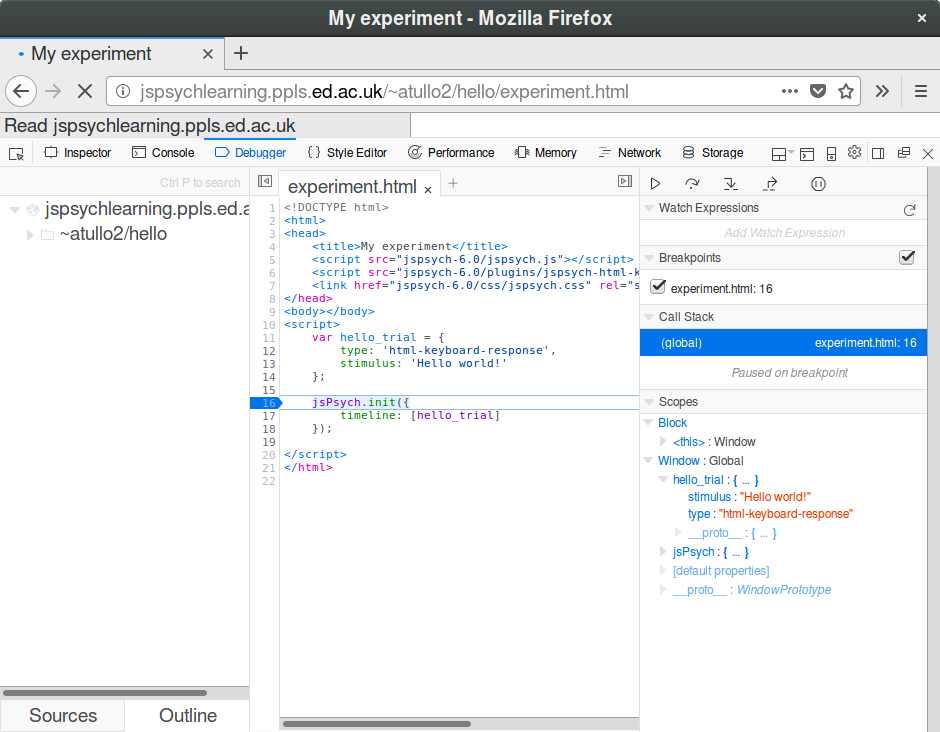
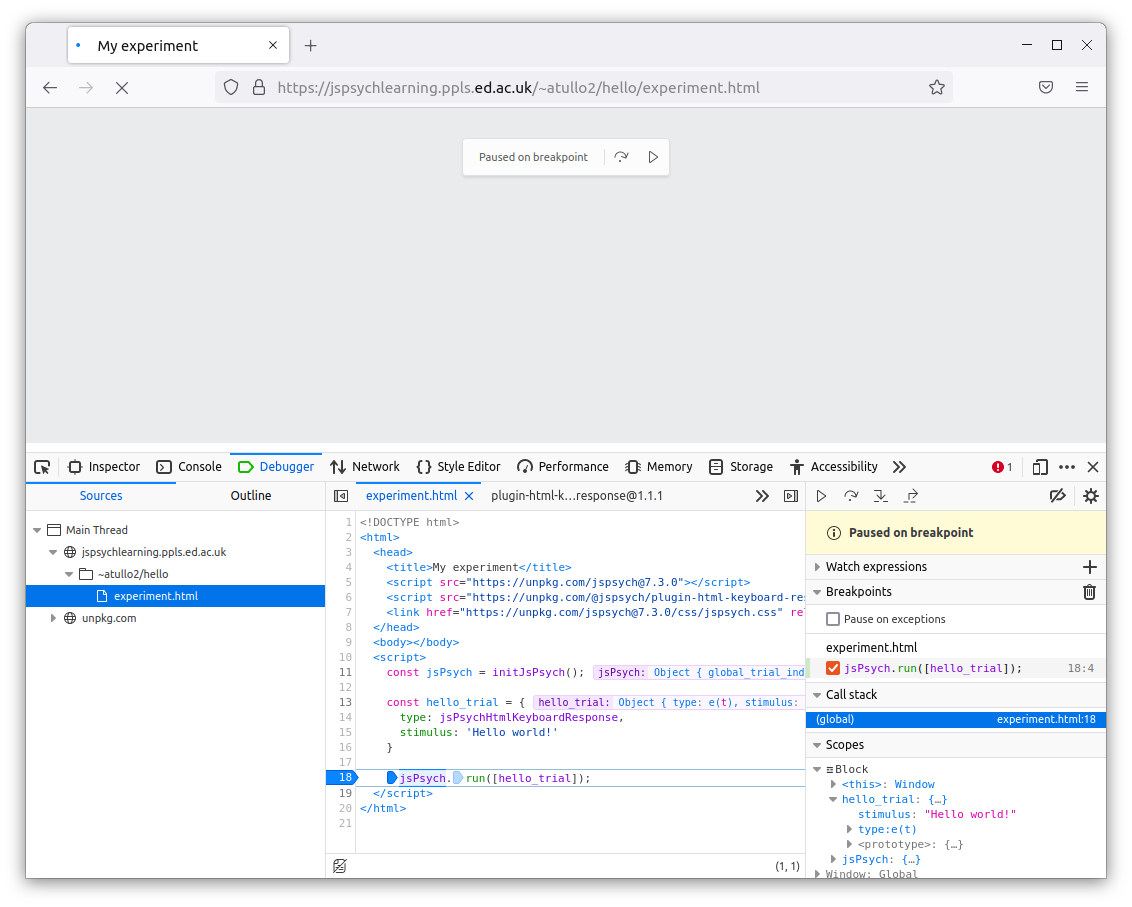
Update for 2022 pt. 1

diff --git a/conf.py b/conf.py
@@ -44,7 +44,7 @@ examples = [
 
 # basic variables for substitution, will add to this along the way
 data = {
-    'teaching_server_fqdn': 'dogbiscuit.ppls.ed.ac.uk'
+    'teaching_server_fqdn': 'jspsychlearning.ppls.ed.ac.uk'
 }
 
 def indent(code):
@@ -82,7 +82,7 @@ master_doc = 'index'
 
 # General information about the project.
 project = 'Online Experiments with jsPsych'
-copyright = '2021, The University of Edinburgh'
+copyright = '2022, The University of Edinburgh'
 author = 'Alisdair Tullo'
 
 # The version info for the project you're documenting, acts as replacement for
@@ -90,9 +90,9 @@ author = 'Alisdair Tullo'
 # built documents.
 #
 # The short X.Y version.
-version = '1.0.1'
+version = '1.1.0'
 # The full version, including alpha/beta/rc tags.
-release = '1.0.1'
+release = '1.1.0'
 
 # The language for content autogenerated by Sphinx. Refer to documentation
 # for a list of supported languages.

diff --git a/02_first.rst b/02_first.rst
@@ -15,6 +15,7 @@ applies here.
 
 .. image:: images/jspsych_how_1.png
     :width: 90%
+    :alt: A box on the left labelled "Participant's web browser (client)" and a box on the right labelled "Server". An arrow connects the two, pointing right to left, labelled "1. Load experiment into web browser".
 
 |
 
@@ -26,6 +27,7 @@ example to load images).
 
 .. image:: images/jspsych_how_2.png
     :width: 90%
+    :alt: A box on the left labelled "Participant's web browser (client) 2. Experiment runs ...." and a box on the right labelled "Server". A greyed-out arrow connects the two, pointing right to left, labelled "1. Load experiment into web browser".
 
 |
 
@@ -36,6 +38,7 @@ server.
 
 .. image:: images/jspsych_how_3.png
     :width: 90%
+    :alt: A box on the left labelled "Participant's web browser (client)" and greyed out " 2. Experiment runs ....", and a box on the right labelled "Server". A greyed-out arrow connects the two, pointing right to left, labelled "1. Load experiment into web browser". Another arrow connects the two, left to right, labelled "3. Send results to server"
 
 |
 
@@ -46,7 +49,7 @@ Let's take a look at the `jsPsych website <http://www.jspsych.org/>`_.
 
 We're going to follow the first tutorial. The tutorial offers you some
 options on how to install jsPsych. `Here's the link to go straight to our
-preferred option <https://www.jspsych.org/7.2/tutorials/hello-world/#option-1-using-cdn-hosted-scripts>`_.
+preferred option <https://www.jspsych.org/7.3/tutorials/hello-world/#option-1-using-cdn-hosted-scripts>`_.
 
 Follow steps 1-7 at this link.
 
@@ -57,7 +60,7 @@ same experiment, with the files on the server.
 Here are some extra notes; keep these handy while you follow the tutorial.
 
 **Step 1**
-    To create your file, in your text editor use "Save As ....".
+    To create your file, in your text editor use "File → Save As ....".
     Go to the folder where you unpacked jsPsych, and give the filename ``experiment.html``.
 
     To open ``experiment.html``, try double-clicking on it.
@@ -88,15 +91,8 @@ Uploading your experiment
 You should have an account on the experiment server, ``{{ teaching_server_fqdn }}``.
 If not, please ask one of the tutors.
 
-To upload the experiment you'll need some file transfer software. You're welcome to
-use whatever you feel most comfortable with. For Windows or Mac, I recommend
-the free and open source program CyberDuck:
-
-| `Windows link <https://update.cyberduck.io/windows/Cyberduck-Installer-8.2.1.36773.exe>`_
-| `Mac link <https://update.cyberduck.io/Cyberduck-8.2.1.36773.zip>`_
-
-For Linux, it will depend on your distribution. In most Linux distributions you can
-connect directly in the file browser, or use the ``scp`` command.
+These instructions use CyberDuck to upload files, as suggested in the Introduction, but if
+you have another program that you know how to use that's fine.
 
 Connect
 .......
@@ -132,7 +128,7 @@ and ``server_data``.
 
 Finally, you can make things more convenient for next time by selecting:
 
-Bookmarks → New bookmark
+Bookmark → New bookmark
 
 in the CyberDuck menu. This will save these connection settings so you don't have to type
 them in again.
@@ -225,7 +221,7 @@ You'll have to:
 1. Upload the image with CyberDuck -- make sure it's in the same place as your experiment
 2. Change the type of the node in the JavaScript code
 3. Add the ``plugin-image-keyboard-response`` plugin at the top of your HTML
-   file (see `the bottom of the plugin documentation page <https://www.jspsych.org/7.2/plugins/image-keyboard-response/#install>`_
+   file (see `the bottom of the plugin documentation page <https://www.jspsych.org/7.3/plugins/image-keyboard-response/#install>`_
    for the ``<script>`` tag to use, under "CDN-hosted JavaScript file")
 4. Give jsPsych the name of the image -- check the plugin documentation to see how.
 5. Upload your code again once you've made these changes.

diff --git a/03_pract.rst b/03_pract.rst
@@ -19,14 +19,18 @@ Then click on "Editor" at the top. You should see this:
 .. image:: images/choose_editor_1.png
   :width: 90%
 
-In the dropdown menu, choose your text editor. If you don't already have
-a programmers' editor, I suggest `Visual Studio Code <https://code.visualstudio.com/Download>`_ .
-Check the box "Always use this application".
+In the dropdown menu, choose your text editor. If you followed my suggestion at the
+start, this will be Visual Studio Code. Check the box "Always use this application".
+
 
 If your text editor is not there,
 you'll need to select "Choose ...." and find it. (You only
 need to do this if it's not there -- if your chosen text editor
 was in the list, you've finished).
+
+----
+
+Only follow this next bit if you couldn't find your code editor in the drop-down menu!
 
 Visual Studio Code can be quite difficult to find on
 Windows as it's in a hidden folder. Go to the folder
@@ -51,6 +55,8 @@ and choose the file called "Code":
 
 .. image:: images/choose_editor_2.png
   :width: 90%
+
+----
 
 Once this is set up (with whichever editor you use) you can edit a file
 directly by selecting it and clicking on the "Edit" button in the toolbar.
@@ -88,7 +94,7 @@ Click on the tab marked "Console". This contains messages from your web browser.
 Most useful are the errors! Open your `experiment.html` file and break the code.
 
     Yes, I'm actually telling you to break the code! The easiest way is to delete
-    a bracket -- ``(``, ``[`` or ``{``, as if these are not in matching pairs that will cause an
+    a bracket -- ``(``, ``[`` or ``{``. If these are not in matching pairs that will cause an
     error.
 
 Now reload the page. You should see something like this:
@@ -99,9 +105,11 @@ Now reload the page. You should see something like this:
 There's an error reported in the console, in red. This will give you a clue as
 to where the problem is! You can click on the links on the right which will show
 you the relevant parts of the code. While error messages can be a little cryptic,
-there's usually something which will help, like "missing }".
+there's usually something which will help, like "missing }". At the end of the line
+with the error you'll see something like "experiment.html:18:29". This means that
+the error was noticed on line 18, at the 29th character. Sometimes 
 
-Now fix your experiment!
+Now fix your experiment and reload the page again -- the error should disappear!
 
 The debugger
 ............
@@ -117,7 +125,7 @@ on the line:
 
 .. code:: javascript
 
-    jsPsych.init({
+    jsPsych.run([hello_trial]);
 
 Now reload the page. The program has stopped on that line. The point that you chose
 by clicking in the margin is called a **breakpoint**.
@@ -125,8 +133,7 @@ by clicking in the margin is called a **breakpoint**.
 .. image:: images/debugger_stopped.png
   :width: 90%
 
-On the right there's a sidebar called "Scopes". (This has other names in other browsers,
-but there should be a list of names and values somewhere). Here you'll be able to see what
+On the right there's a sidebar called "Scopes" or "Scope". Here you'll be able to see what
 value different variables have. Some of these are built in to the browser, or part of the
 internal workings of jsPsych -- don't worry about these for now.
 

diff --git a/04_jspsych.rst b/04_jspsych.rst
@@ -1,7 +1,7 @@
 The structure of a jsPsych experiment
 =====================================
 
-As you know, a jsPsych experiment is a series of nodes.
+A jsPsych experiment is a series of nodes.
 Usually one node corresponds to one presentation to the
 participant. So far in our test experiment, we've only
 got one node which says hello (or shows an image, if you
@@ -85,7 +85,7 @@ of the code to:
 .. code:: javascript
 
 
-    const jsPsych = initJsPsych({
+    var jsPsych = initJsPsych({
         on_finish: function() {
             jsPsych.data.displayData();
         }
@@ -141,7 +141,7 @@ We'll start by just varying the ``stimulus``. At the start of your code, just af
 
 .. code:: javascript
 
-    const variables = [
+    var variables = [
         { image: "image1.jpg" },
         { image: "image2.jpg" }
     ];
@@ -150,7 +150,7 @@ Make sure that the image filenames match the ones in your code. Now, using one o
 
 .. code:: javascript
 
-    const trial = {
+    var trial = {
         type: jsPsychImageKeyboardResponse,
         stimulus: jsPsych.timelineVariable("image")
     }
@@ -159,7 +159,7 @@ You can delete your other trial. Now all that's needed is to connect this to the
 
 .. code:: javascript
 
-    const trials_with_variables = {
+    var trials_with_variables = {
         timeline: [trial],
         timeline_variables: variables
     };
@@ -175,7 +175,7 @@ Repetition
 
 What if you want to repeat a set of trials several times? jsPsych allows
 you to do this without having to type out all the repetitions. After your
-node definitions (``const hello_trial = { ....``) add a line:
+node definitions (``var hello_trial = { ....``) add a line:
 
 .. code:: javascript
 
@@ -187,7 +187,7 @@ This puts your two nodes into a list, called ``trials``. Now add a line:
 
 .. code:: javascript
 
-    const repeated_trials = jsPsych.randomization.repeat(trials,5);
+    var repeated_trials = jsPsych.randomization.repeat(trials,5);
 
 This repeats the list ``trials`` five times, randomises it, and puts the
 result in a new list called ``repeated_trials``.
@@ -221,7 +221,7 @@ for the first experiment and replace ``hello`` with ``factorial``.
 Let's create a factorial design over a set of images and a set of stimulus durations.
 
 Look at the
-`documentation for the image-keyboard-response plugin <https://www.jspsych.org/7.2/plugins/image-keyboard-response/>`_.
+`documentation for the image-keyboard-response plugin <https://www.jspsych.org/7.3/plugins/image-keyboard-response/>`_.
 There is a ``stimulus_duration`` parameter which controls the duration of the stimulus.
 
 So, we can make a full-factorial design with:
@@ -317,7 +317,7 @@ This should go in the main timeline (in jsPsych.init).
 
 You can use the ``html-keyboard-response`` plugin, which you saw in the "Hello World!"
 example right at the start, or you can use the ``instructions`` plugin
-(`documented here <https://www.jspsych.org/plugins/jspsych-instructions/>`_). Remember that
+(`documented here <https://www.jspsych.org/7.3/plugins/jspsych-instructions/>`_). Remember that
 when you add a plugin to an experiment, there must be a corresponding ``<script src="...."></script>``
 in ``experiment.html``.
 

diff --git a/06_data.rst b/06_data.rst
@@ -105,7 +105,7 @@ In the ``experiment.js`` file, add a new function:
     This uses a function called ``fetch``. Note that this doesn't
     work on Internet Explorer. If you need the experiment
     to be available on IE, you can either use a different method to send the data (see
-    `the jsPsych documentation <http://www.jspsych.org/overview/data/#storing-data-permanently-as-a-file>`_ )
+    `the jsPsych documentation <http://www.jspsych.org/7.3/overview/data/#storing-data-permanently-as-a-file>`_ )
     or use the `fetch polyfill <https://github.com/github/fetch>`_ [#polyfills]_ .
 
 Now finally, we need to change the experiment to send the data. Change your call to ``jsPsych.init``
@@ -126,7 +126,7 @@ Note that the previous code called the ``displayData()`` function, which just sh
 This new code calls ``jsPsych.data.get()`` to get a ``DataCollection`` object. Then we call the ``DataCollection``'s
 ``csv()`` method, to get that data as CSV. ``DataCollection`` objects are a new feature of jsPsych, which
 give you lots of control over your data. We'll take a look at some specific things later -- for now,
-`here's a link to the documentation <http://www.jspsych.org/core_library/jspsych-data/#datacollection>`_
+`here's a link to the documentation <http://www.jspsych.org/7.3/core_library/jspsych-data/#datacollection>`_
 
 How it works
 ------------
@@ -321,7 +321,7 @@ for example their Crowdflower ID or Amazon MTurk number, that will allow you to
 verify their participation and pay them.
 
 Add a node at the beginning of your code which allows the user to input an ID, using
-`the survey-text plugin <http://www.jspsych.org/plugins/jspsych-survey-text/>`_ . (Remember you'll also have to add a ``<script>`` tag
+`the survey-text plugin <http://www.jspsych.org/7.3/plugins/jspsych-survey-text/>`_ . (Remember you'll also have to add a ``<script>`` tag
 to your ``experiment.html`` file to load the plugin). Add this node to your experiment
 at the beginning. This works a little differently to the plugins we've seen before,
 so be sure to read the documentation before you start.
@@ -337,7 +337,7 @@ without a name -- see :ref:`this section <functions>`), and inside it use
 a new column to the data which includes the ID. The function you pass to
 ``on_finish`` receives the data from the trial as an
 argument -- take a look at the documentation
-`here <http://www.jspsych.org/overview/callbacks/#on_finish-trial>`_ .
+`here <http://www.jspsych.org/7.3/overview/callbacks/#on_finish-trial>`_ .
 
 **Hint:** to get the response out of the ``survey-text`` trial, use
 

diff --git a/00_about.rst b/00_about.rst
@@ -1,9 +1,28 @@
-About this course
-=================
+Introduction
+============
 
 In this course you will learn how to build online experiments using jsPsych and JavaScript.
 
 JavaScript is a programming language used by web browsers, and jsPsych is a toolkit with useful extra functions which uses JavaScript.
+
+Before you start
+----------------
+
+For this course you will need a programmers' editor and something to allow you to transfer
+files to the server. If you don't already have these, I recommend the editor Visual Studio Code
+and the file transfer program CyberDuck. Both of these are free and open source.
+
+Here's the link to download `Visual Studio Code <https://code.visualstudio.com/Download>`_ .
+
+For CyberDuck, here are download links for Windows and Mac.
+
+| `Windows link <https://update.cyberduck.io/windows/Cyberduck-Installer-8.4.3.38269.exe>`_
+| `Mac link <https://update.cyberduck.io/Cyberduck-8.4.3.38269.zip>`_
+
+To transfer files from Linux, it will depend on your distribution. In most Linux distributions you can
+connect directly in the desktop file browser, or use the ``scp`` command.
+
+Install these before you start working through the rest of the materials.
 
 .. include:: site_specific/hosting_about.rst
 
@@ -11,7 +30,7 @@ Exercises and solutions
 -----------------------
 
 There are exercises throughout this course to help you practice and test your
-understanding. All of these have solutions, which are linked from each exercise
+understanding. Solutions are provided, and are linked from each exercise
 and together in the :doc:`course table of contents <index>`.
 
 Feel free to use these solutions to help you at any stage. In

diff --git a/site_specific/hosting_about.rst b/site_specific/hosting_about.rst
@@ -2,7 +2,7 @@
 University VPN
 --------------
 
-Normally, the teaching server is only allowed from inside the University network,
+Normally, the teaching server is only accessible from inside the University network,
 including wired internet connections and the "eduroam" wireless network.
 To connect from other locations (including the "central" wireless network)
 please click the link below and follow the instructions to access the VPN:
@@ -17,11 +17,5 @@ Servers
 The teaching server used in this course is **not suitable** for real experiments.
 
 Web hosting for your own experiments (for research, or for an undergraduate, MSc or PhD project) can be
-requested using this form:
-
-https://www.ed.ac.uk/information-services/computing/audio-visual-multi-media/web-hosting/web-hosting-request-form
-
-If you are a PhD student or member of staff, you may request hosting yourself.
-If you are an Undergraduate or MSc student, please ask your supervisor to
-complete the form. Note that (despite the question about cost on the form) we
-are not charged individually for web hosting in PPLS.
+requested from the central IT service, see
+`this page for details <https://ppls.ed.ac.uk/techsupport/2022/09/14/requesting-web-hosting-for-online-experiments/>`_.

diff --git a/index.rst b/index.rst
@@ -3,16 +3,16 @@ Online Experiments with jsPsych
 
 Welcome to Online Experiments!
 
-This course is being updated to use jsPsych 7.2!
+This course is being updated to use jsPsych 7.3.
 
 Currently, materials up to and including section 03 are up to date.
 
-Please start with section 00, "About this course".
+Please start with the first section, "Introduction".
 
 .. toctree::
    :maxdepth: 2
 
-   00 About this course <00_about>
+   00 Introduction <00_about>
    01 About the Web <01_web>
    02 An introduction to jsPsych <02_first>
    03 Developer tools and editing <03_pract>

diff --git a/01_web.rst b/01_web.rst
@@ -59,7 +59,7 @@ For example:
 
     <title>About the Web</title>
 
-This sets the text that appears in the title bar of your browser window.
+This sets the text that appears in the tab for the web page.
 
 To give another example, a
 `link to this page <https://softdev.ppls.ed.ac.uk/online_experiments/01_web.html>`_
